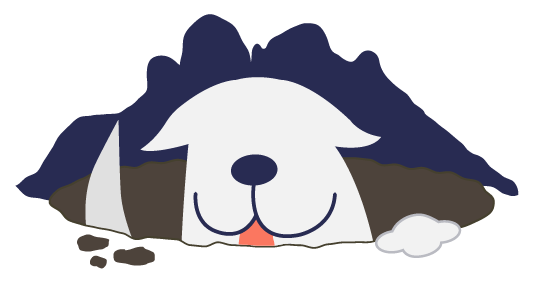
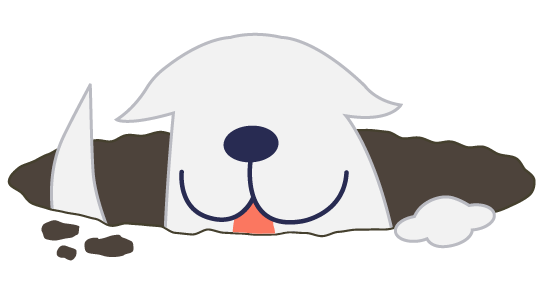
image update

diff --git a/content/time-management/prioritise-plan.md b/content/time-management/prioritise-plan.md
@@ -7,11 +7,10 @@ weight: 3
     <h2>The Eisenhower Matrix</h2>
     <p><strong>The Eisenhower Matrix</strong> is a simple tool that helps people sort their priorities. It shows us that some things do need attention now, while others can wait. Some tasks need our full effort, and others are fine being “good enough”, not perfect.</p>
     <p>For this course, we’ve adapted this tool into a <strong>Student Time Matrix</strong>.</p>
-	<h3>Student Time Matrix</h3>
-    <p><strong>Matrix image here</strong></p>
-	<p>
-		<strong>Student Time Matrix</strong> is based on two questions:
-	</p>
+	<h2>Student Time Matrix</h2>
+	<figure class="wide">
+		<img src="/nd-workshop/images/time-management/[email redacted]" alt="" />
+	</figure>
 	<ol>
 	<li><strong>How urgent is this?</strong> (Does it need attention now, or can it wait?)</li>
 	<li><strong>How important is this?</strong> (Does it really matter for my goals, studies, or wellbeing?)</li>